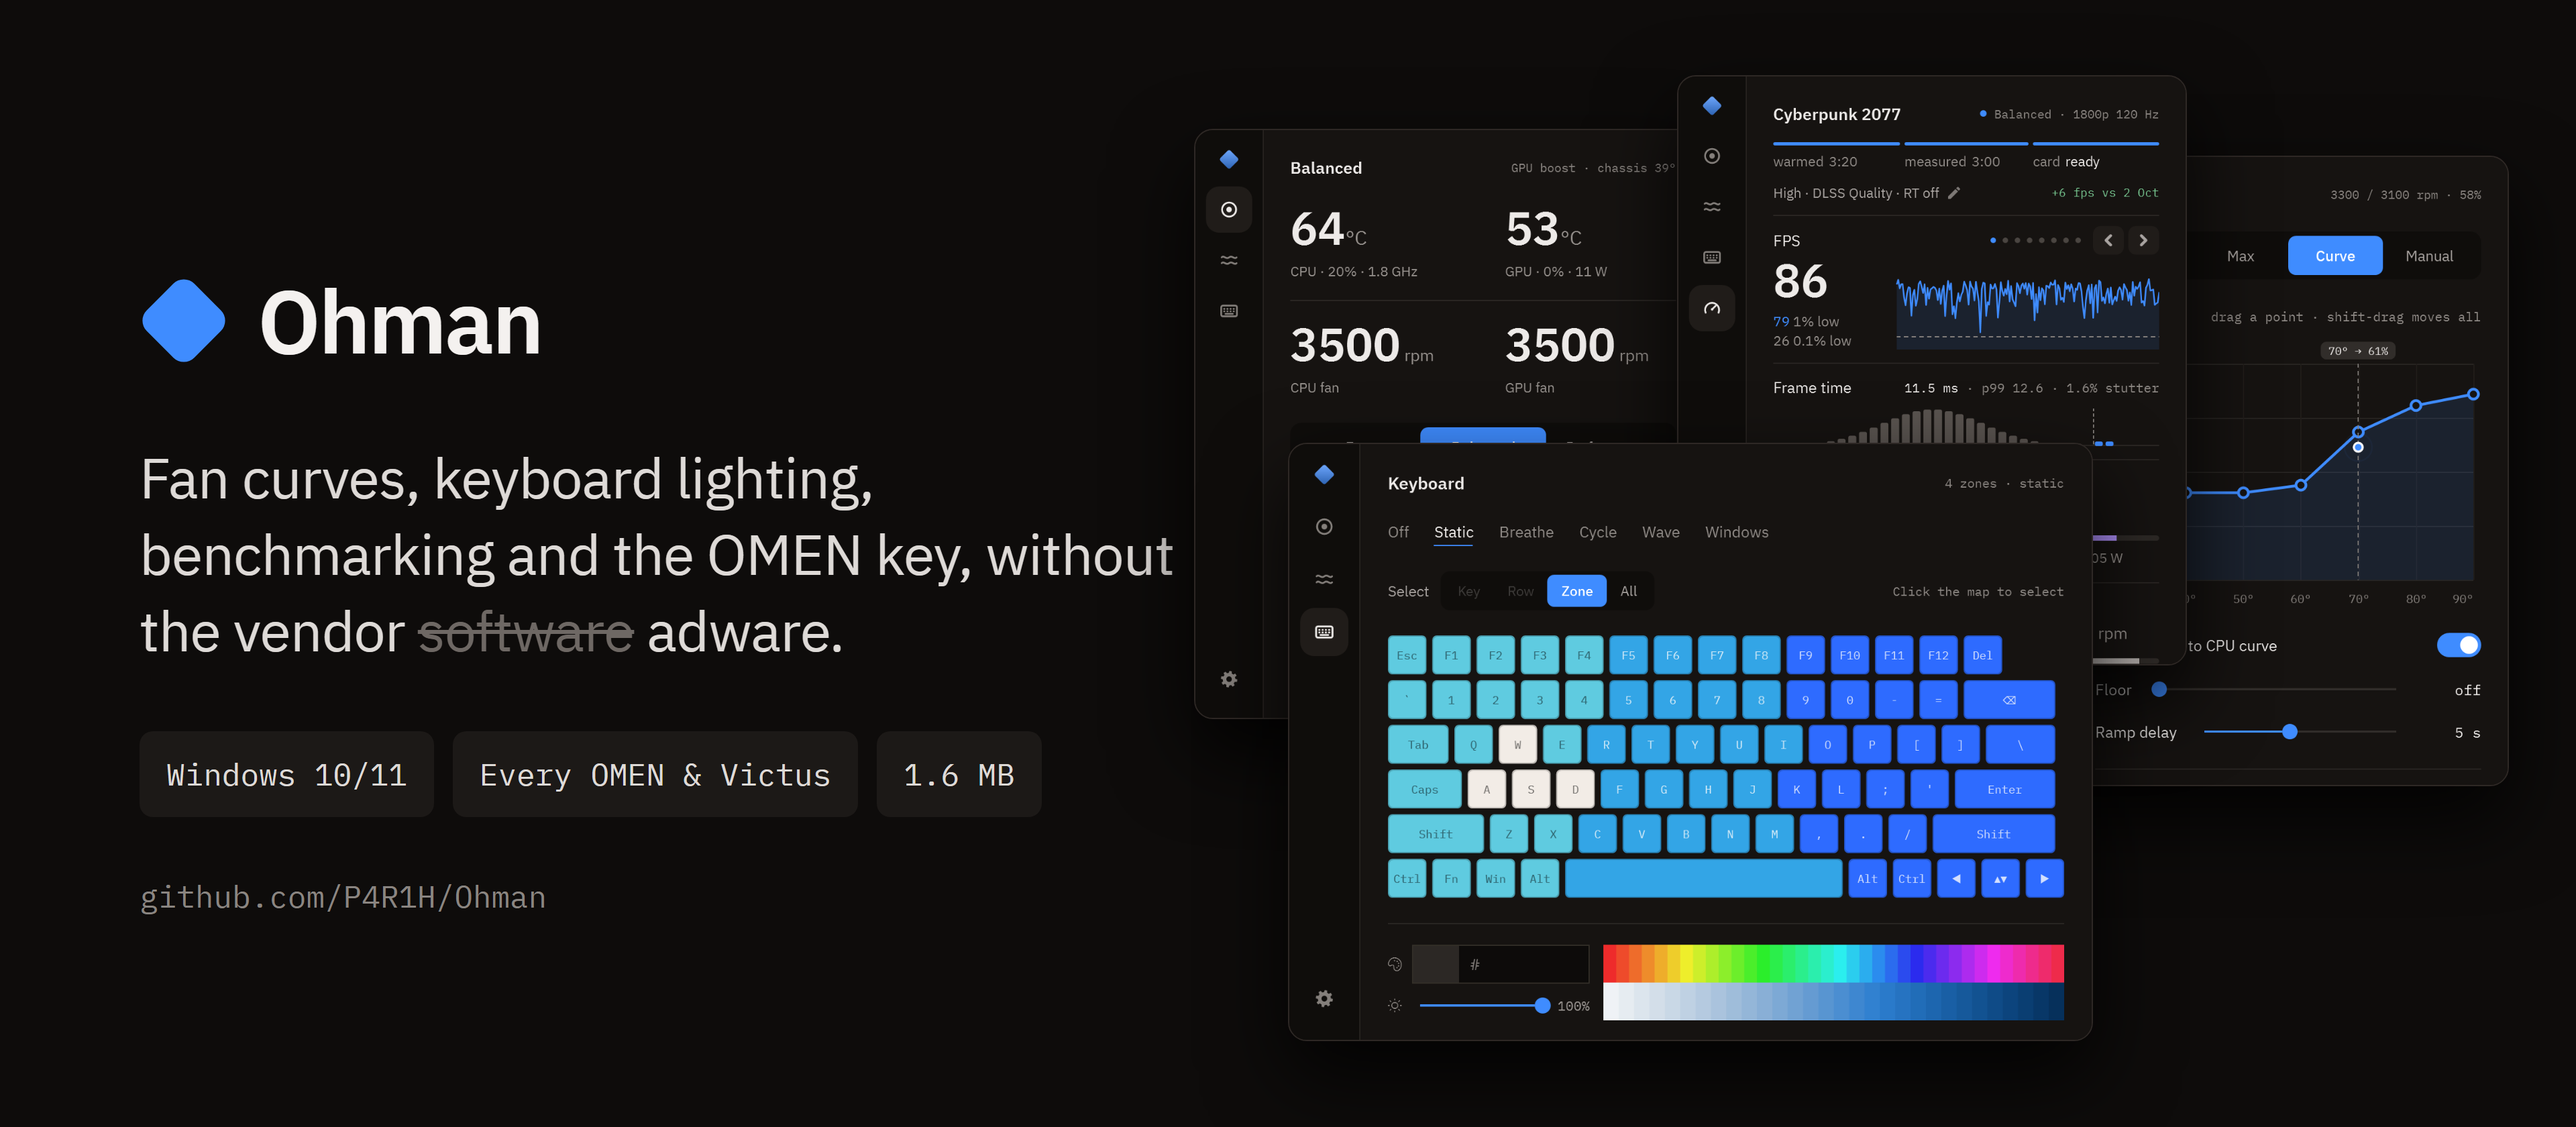
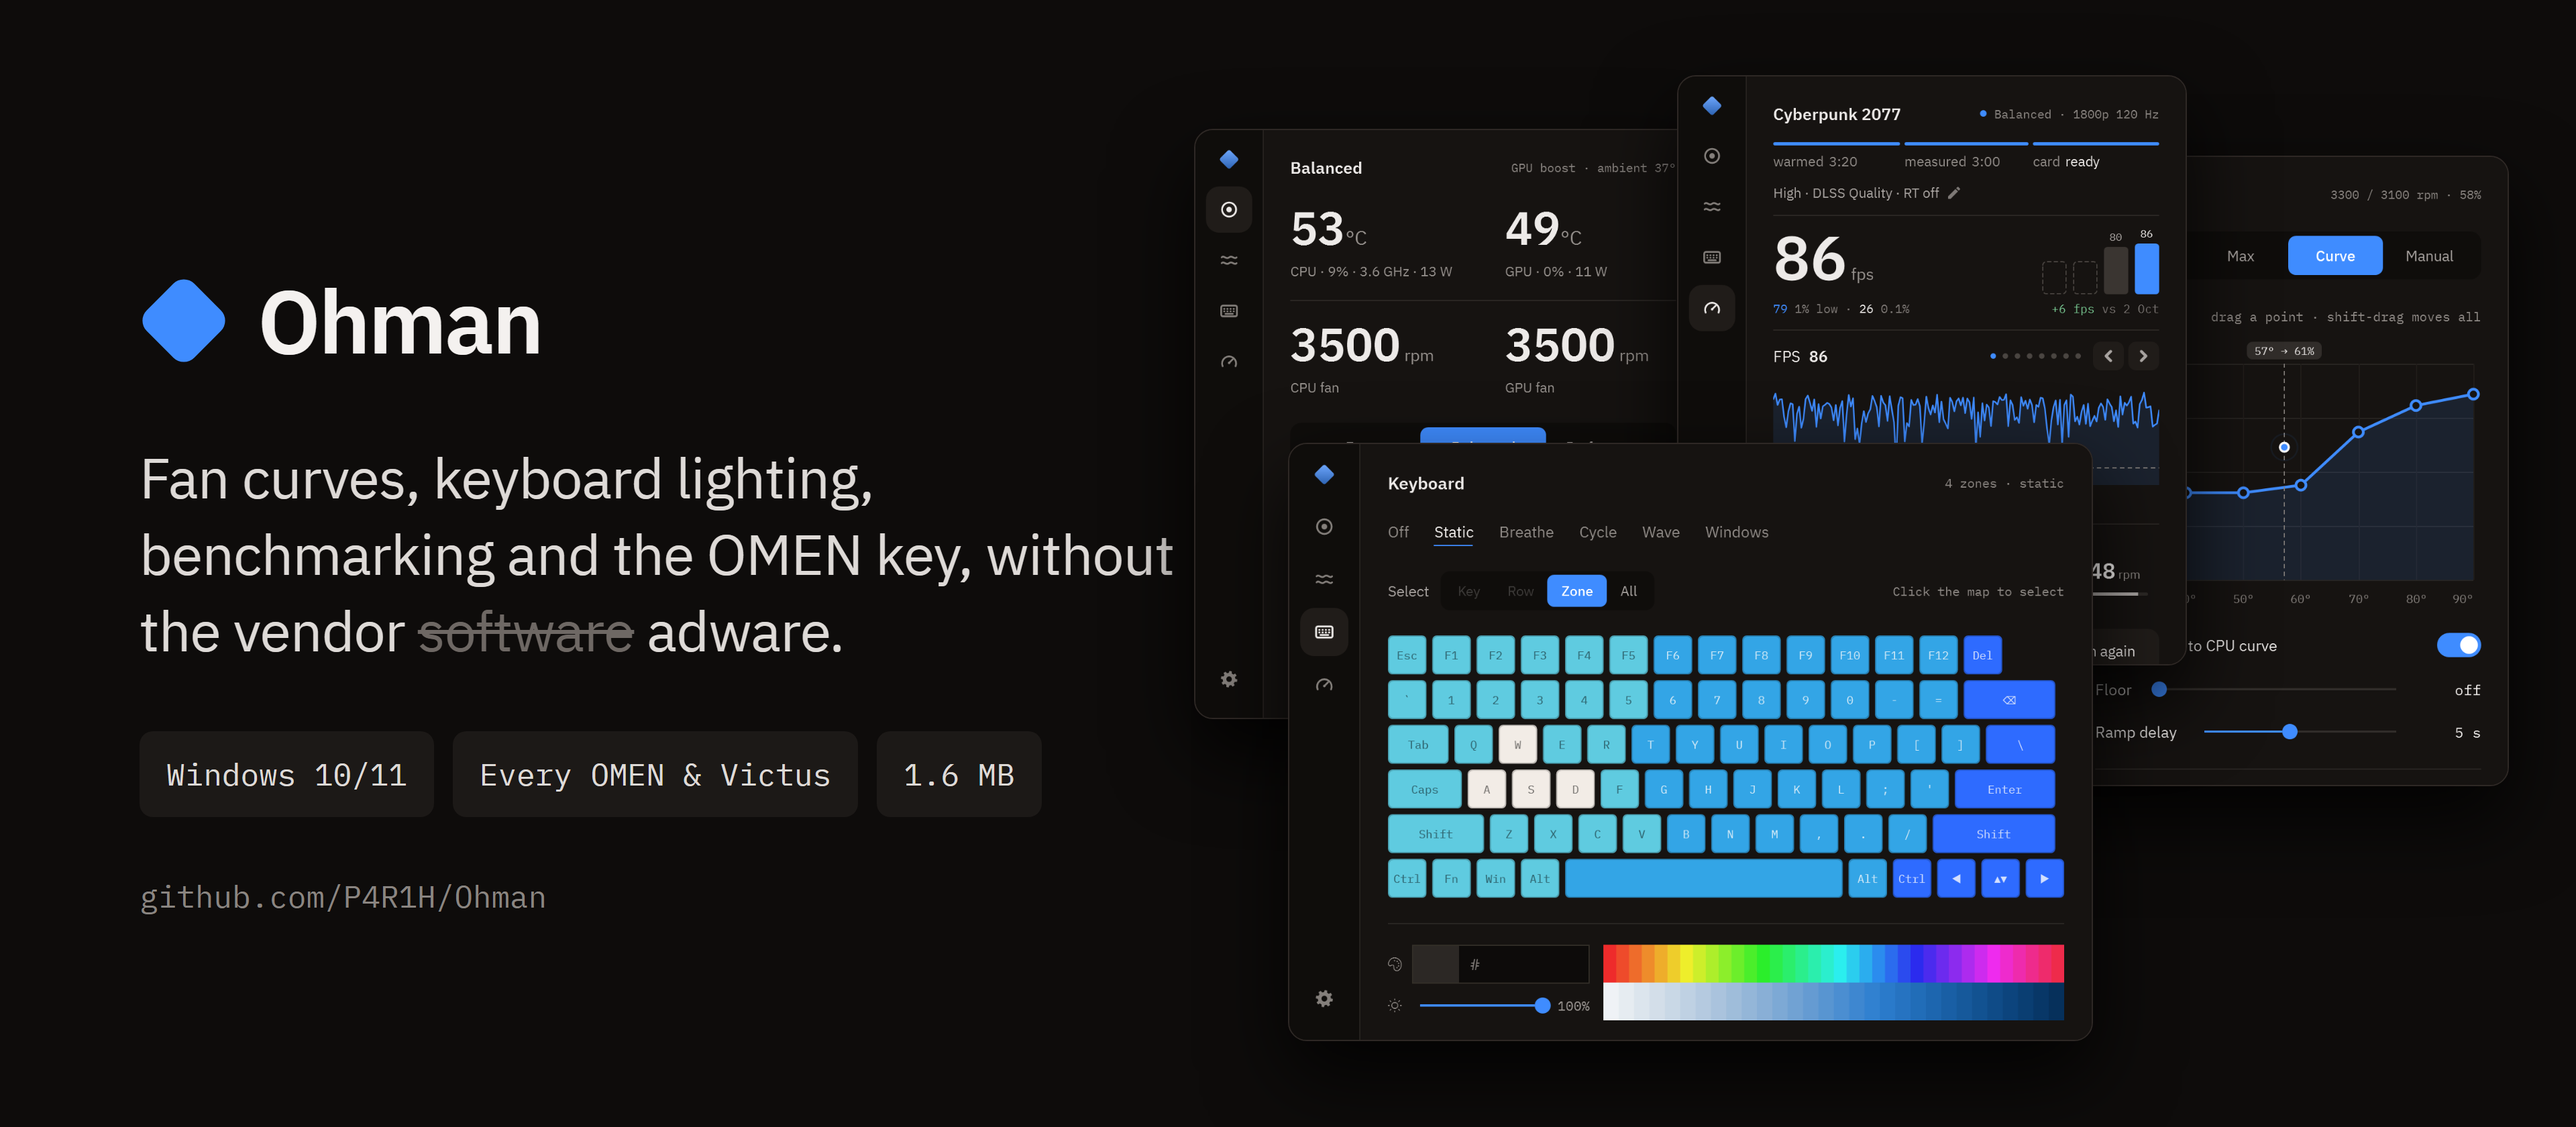
README and site: the hero and the page screenshots from 1.3.4, with the new benchmark page

diff --git a/docs/index.html b/docs/index.html
@@ -365,18 +365,18 @@ footer p{margin:0 0 8px}
       <div class="strip-track">
         <img src="home.png" width="920" height="1082" alt="The Home page: modes, live temperatures and fan speeds, power gain and a lighting preview.">
         <img src="fans.png" width="920" height="1208" alt="The Fans page: Auto, Max, Curve and Manual, with a draggable seven-point curve.">
-        <img src="keyboard.png" width="1400" height="1038" alt="The Keyboard page: the board in its real zone colours, with hue and shade strips.">
-        <img src="bench.png" width="920" height="1298" alt="The Benchmark page: a finished run with its FPS graph, frame times, temperatures, power and fans.">
+        <img src="keyboard.png" width="1400" height="1054" alt="The Keyboard page: the board in its real zone colours, with hue and shade strips.">
+        <img src="bench.png" width="920" height="1122" alt="The Benchmark page: a finished run, its FPS beside the runs before it, the FPS graph and frame times, temperatures, power and fans.">
         <img src="settings.png" width="920" height="1280" alt="The Settings page: the OMEN key, power, display and app sections.">
         <img src="home.png" width="920" height="1082" alt="" aria-hidden="true">
         <img src="fans.png" width="920" height="1208" alt="" aria-hidden="true">
-        <img src="keyboard.png" width="1400" height="1038" alt="" aria-hidden="true">
-        <img src="bench.png" width="920" height="1298" alt="" aria-hidden="true">
+        <img src="keyboard.png" width="1400" height="1054" alt="" aria-hidden="true">
+        <img src="bench.png" width="920" height="1122" alt="" aria-hidden="true">
         <img src="settings.png" width="920" height="1280" alt="" aria-hidden="true">
         <img src="home.png" width="920" height="1082" alt="" aria-hidden="true">
         <img src="fans.png" width="920" height="1208" alt="" aria-hidden="true">
-        <img src="keyboard.png" width="1400" height="1038" alt="" aria-hidden="true">
-        <img src="bench.png" width="920" height="1298" alt="" aria-hidden="true">
+        <img src="keyboard.png" width="1400" height="1054" alt="" aria-hidden="true">
+        <img src="bench.png" width="920" height="1122" alt="" aria-hidden="true">
         <img src="settings.png" width="920" height="1280" alt="" aria-hidden="true">
       </div>
     </div>
